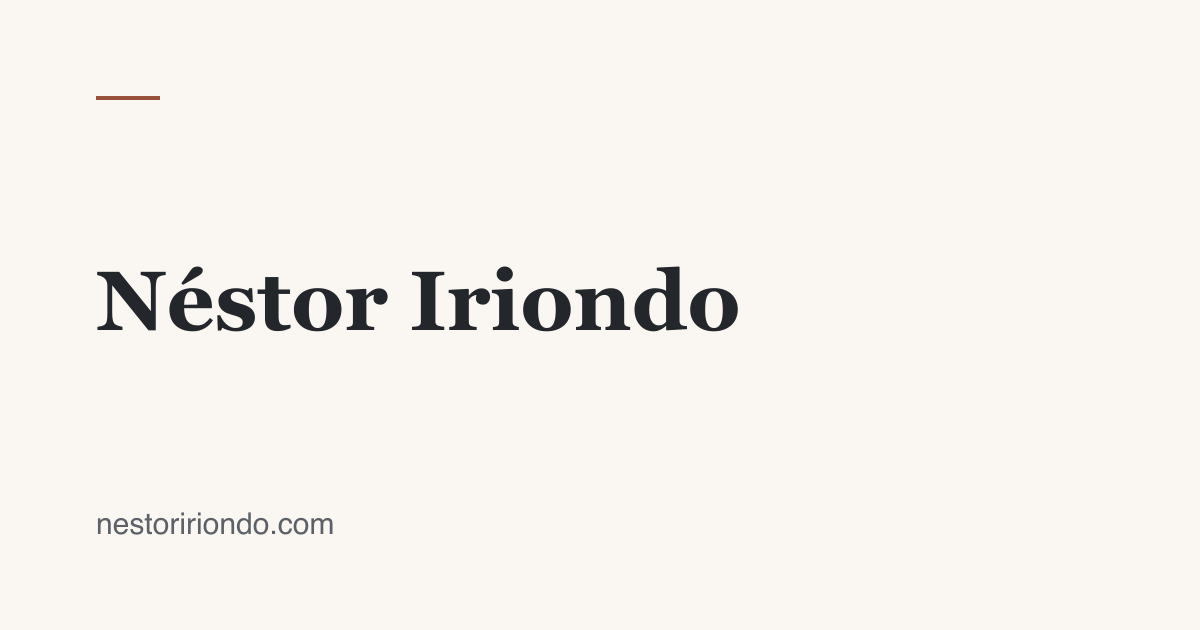
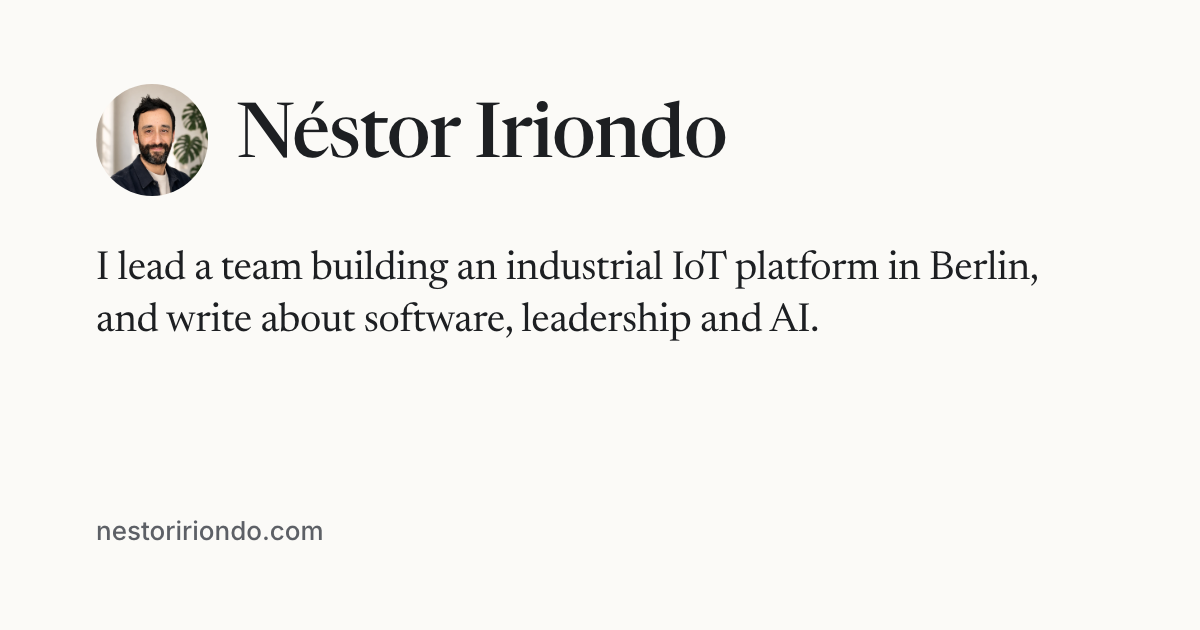
feat: structured data, new share image, broader contact line
schema.org Person on the homepage and BlogPosting on posts. New
1200x630 og.png in Newsreader with size and alt tags. Contact line now
invites roles and advisory work as well as freelance projects.

Changed region(s): [[0.0617, 0.3921, 0.8633, 0.5429], [0.0617, 0.1206, 0.6167, 0.3317], [0.0617, 0.8143, 0.2775, 0.8746]]

diff --git a/src/site.ts b/src/site.ts
@@ -5,6 +5,9 @@ export const SITE = {
   description:
     "Néstor Iriondo writes about building software, leading people, and what AI changes about both.",
   email: "hello@nestoririondo.com",
+  /** Shown on the share image (public/og.png) and as its alt text. */
+  tagline:
+    "I lead a team building an industrial IoT platform in Berlin, and write about software, leadership and AI.",
 };
 
 /** Profiles linked from the homepage. Entries without a URL are not shown. */
@@ -17,6 +20,18 @@ export const NAV = [
   { href: "/projects", label: "Projects" },
   { href: "/about", label: "About" },
 ];
+
+/** schema.org Person; `sameAs` links the site to the public profiles. */
+export const person = (image?: string) => ({
+  "@type": "Person",
+  name: SITE.name,
+  url: SITE.url,
+  email: `mailto:${SITE.email}`,
+  ...(image && { image }),
+  worksFor: { "@type": "Organization", name: "Murrelektronik" },
+  homeLocation: { "@type": "Place", name: "Berlin" },
+  sameAs: PROFILES.map(({ href }) => href).filter(Boolean),
+});
 
 const dateFormat = new Intl.DateTimeFormat("en-GB", {
   day: "numeric",
